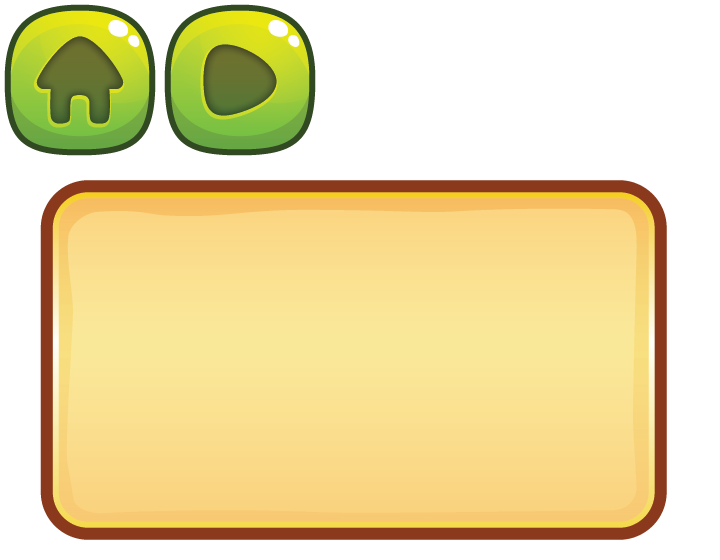
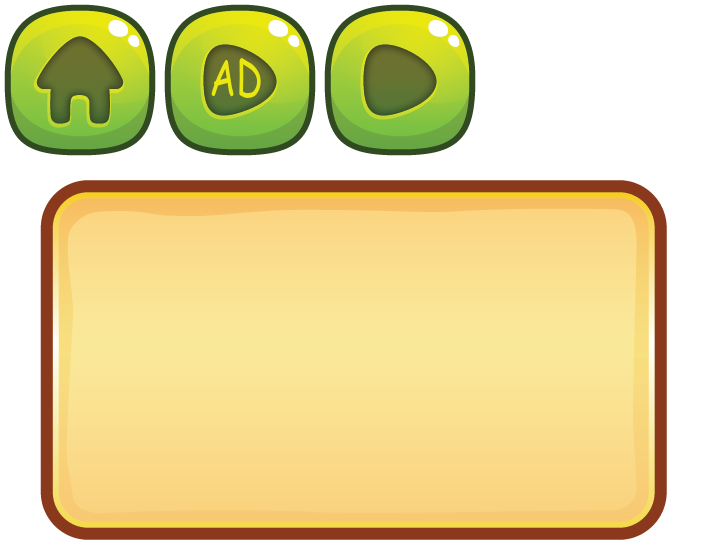
Fixes sound manager. Adds an "AD" text to the play-ad button.

Changed region(s): [[0.4278, 0.0, 0.6722, 0.3036], [0.275, 0.0911, 0.3667, 0.1821]]

diff --git a/src/utils/SoundManager.ts b/src/utils/SoundManager.ts
@@ -2,13 +2,22 @@ declare type SoundKeys = "walk"|"sfx_hit"|"sfx_point"|"sfx_wing"|"sfx_swooshing"
 
 export default class SoundManager {
 
+    private  static _map: Map<string, Phaser.Sound.BaseSound> = new Map();
+
     static playSound(scene: Phaser.Scene, key: SoundKeys, forceToPlay = false) {
 
-        const sound = scene.sound.get(key);
-        
-        if (!sound || !sound.isPlaying || forceToPlay) {
+        let sound = this._map.get(key);
 
-            scene.sound.play(key);
+        if (!sound) {
+
+            sound = scene.sound.add(key);
+
+            this._map.set(key, sound);
+        }
+        
+        if (forceToPlay || !sound.isPlaying) {
+
+            sound.play();
         }
     }
 
@@ -16,7 +25,7 @@ export default class SoundManager {
 
         for (const key of keys) {
 
-            const sound = scene.sound.get(key);
+            const sound = this._map.get(key);
 
             if (sound) {
 

diff --git a/src/prefabs/Player.ts b/src/prefabs/Player.ts
@@ -56,6 +56,7 @@ export default class Player extends Phaser.Physics.Arcade.Sprite {
 
 			this.play("player-Running", true);
 
+			console.log("play walk " + Date.now());
 			SoundManager.playSound(this.scene, "walk");
 
 			this._countJumps = 0;
@@ -129,6 +130,9 @@ export default class Player extends Phaser.Physics.Arcade.Sprite {
 			this.body.velocity.y = -600;
 
 			this.play("player-Jump Loop", true);
+
+			console.log("stop walk" + Date.now());
+			SoundManager.stopSound(this.scene, "walk");
 
 			SoundManager.playSound(this.scene, "sfx_wing", true);
 		}

diff --git a/src/prefabs/GameOverDialog.ts b/src/prefabs/GameOverDialog.ts
@@ -29,7 +29,7 @@ export default class GameOverDialog extends Phaser.GameObjects.Container {
 		this.add(btnHome);
 
 		// btnPlay
-		const btnPlay = scene.add.image(276, 400, "ui", "Button Pack - Green_Button Green - Play.png");
+		const btnPlay = scene.add.image(276, 400, "ui", "Button Pack - Green_Button Green - Play Ad.png");
 		btnPlay.scaleX = 0.5;
 		btnPlay.scaleY = 0.5;
 		this.add(btnPlay);
